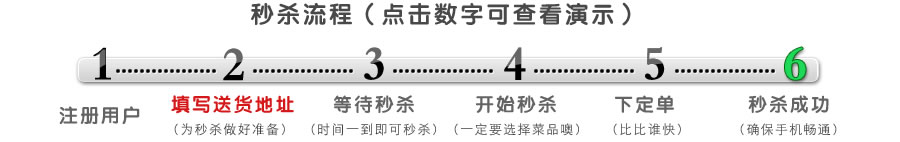
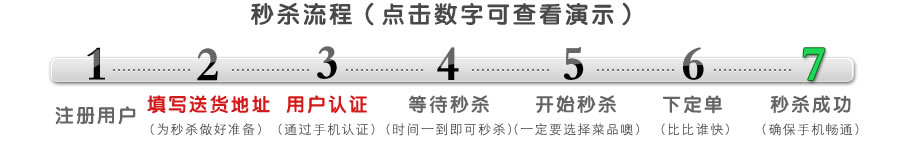
秒杀

Changed region(s): [[0.0311, 0.3099, 0.9644, 0.6197], [0.0622, 0.6479, 0.9644, 0.8732], [0.1556, 0.8732, 0.9644, 0.9577]]

diff --git a/protected/views/miaosha/rules.php b/protected/views/miaosha/rules.php
@@ -4,41 +4,45 @@
 <meta http-equiv="Content-Type" content="text/html; charset=UTF-8" />
 <title>秒杀流程</title>
 <style>
-body{ margin:0; padding:0px;}
+body{ margin:0; padding:0px; background-color:#CCC;}
+img{ border:0px;}
 .M_mc{ text-align:center;}
 .M_m30{ margin:30px 0;}
-img {border: 0px;}
+.M_w900{ width:900px; margin:0 auto; background:#FFF;}
 </style>
 </head>
 
 <body>
+<div class="M_w900">
 <div class="M_mc"><a name="top"><img src="<?php echo resBu('miaosha/images/miao_r1_c1.jpg'); ?>" width="900" height="92" /></a></div>
 <div class="M_m30 M_mc"><img src="<?php echo resBu('miaosha/images/miao_r3_c1.jpg'); ?>" width="900" height="142" border="0" usemap="#Map" />
   <map name="Map" id="Map">
     <area shape="rect" coords="52,36,148,135" href="#a1" />
-    <area shape="rect" coords="165,36,303,137" href="#a2" />
-    <area shape="rect" coords="309,37,440,137" href="#a3" />
-    <area shape="rect" coords="445,36,585,139" href="#a4" />
-    <area shape="rect" coords="591,35,701,141" href="#a5" />
-    <area shape="rect" coords="722,33,846,140" href="#a6" />
+    <area shape="rect" coords="149,36,268,134" href="#a2" />
+    <area shape="rect" coords="270,37,378,136" href="#a3" />
+    <area shape="rect" coords="380,37,510,137" href="#a4" />
+    <area shape="rect" coords="513,39,639,135" href="#a5" />
+    <area shape="rect" coords="641,38,743,135" href="#a6" />
+    <area shape="rect" coords="745,37,868,137" href="#a7" />
   </map>
 </div>
-<div class="M_m30 M_mc"><img src="<?php echo resBu('miaosha/images/miao_r5_c1.jpg'); ?>" width="900" height="287" /></div>
-<div class="M_m30 M_mc"><a name="a1" href="#top"><img src="<?php echo resBu('miaosha/images/miao_r7_c1.jpg'); ?>" width="900" height="35" /></a></div>
-<div class="M_m30 M_mc"><img src="<?php echo resBu('miaosha/images/miao_r9_c2.jpg'); ?>" width="661" height="615" /></div>
-<div class="M_mc"><a name="a2" href="#top"><img src="<?php echo resBu('miaosha/images/miao_r11_c1.jpg'); ?>" width="900" height="35" /></a></div>
-<div class="M_m30 M_mc"><img src="<?php echo resBu('miaosha/images/miao_r13_c2.jpg'); ?>" width="661" height="517" /></div>
-<div class="M_mc"><a name="a3" href="#top"><img src="<?php echo resBu('miaosha/images/miao_r15_c1.jpg'); ?>" width="900" height="36" /></a></div>
-<div class="M_m30 M_mc"><img src="<?php echo resBu('miaosha/images/miao_r17_c2.jpg'); ?>" width="661" height="576" /></div>
-<div class="M_mc"><a name="a4" href="#top"><img src="<?php echo resBu('miaosha/images/miao_r19_c1.jpg'); ?>" width="900" height="34" /></a></div>
-<div class="M_m30 M_mc"><img src="<?php echo resBu('miaosha/images/miao_r21_c2.jpg'); ?>" width="661" height="397" /></div>
-<div class="M_mc"><a name="a5" href="#top"><img src="<?php echo resBu('miaosha/images/miao_r23_c1.jpg'); ?>" width="900" height="36" /></a></div>
-<div class="M_m30 M_mc"><img src="<?php echo resBu('miaosha/images/miao_r25_c2.jpg'); ?>" width="661" height="703" /></div>
-<div class="M_mc"><a name="a6" href="#top"><img src="<?php echo resBu('miaosha/images/miao_r27_c1.jpg'); ?>" width="900" height="36" /></a></div>
-<div class="M_m30 M_mc"><img src="<?php echo resBu('miaosha/images/miao_r29_c2.jpg'); ?>" width="661" height="407" /></div>
-<div class="M_mc"><a href="#top"><img src="<?php echo resBu('miaosha/images/miao_r31_c1.jpg'); ?>" width="900" height="32" /></a></div>
-<div class="M_m30 M_mc"><img src="<?php echo resBu('miaosha/images/miao_r33_c2.jpg'); ?>" width="661" height="411" /></div>
-
-
+<div class="M_m30 M_mc"><img src="<?php echo resBu('miaosha/images/miao_r4_c1.jpg'); ?>" width="900" height="404" /></div>
+<div class="M_m30 M_mc"><a name="a1" href="#top"><img src="<?php echo resBu('miaosha/images/miao_r6_c1.jpg'); ?>" width="895" height="35" /></a></div>
+<div class="M_m30 M_mc"><img src="<?php echo resBu('miaosha/images/miao_r8_c4.jpg'); ?>" width="661" height="615" /></div>
+<div class="M_mc"><a name="a2" href="#top"><img src="<?php echo resBu('miaosha/images/miao_r10_c1.jpg'); ?>" width="900" height="35" /></a></div>
+<div class="M_m30 M_mc"><img src="<?php echo resBu('miaosha/images/miao_r12_c4.jpg'); ?>" width="661" height="517" /></div>
+<div class="M_mc"><a name="a3" href="#top"><img src="<?php echo resBu('miaosha/images/miao_r14_c1.jpg'); ?>" width="900" height="36" /></a></div>
+<div class="M_m30 M_mc"><img src="<?php echo resBu('miaosha/images/miao_r16_c3.jpg'); ?>" width="661" height="752" /></div>
+<div class="M_mc"><a name="a4" href="#top"><img src="<?php echo resBu('miaosha/images/miao_r18_c1.jpg'); ?>" width="900" height="34" /></a></div>
+<div class="M_m30 M_mc"><img src="<?php echo resBu('miaosha/images/miao_r20_c2.jpg'); ?>" width="661" height="569" /></div>
+<div class="M_mc"><a name="a5" href="#top"><img src="<?php echo resBu('miaosha/images/miao_r22_c1.jpg'); ?>" width="900" height="36" /></a></div>
+<div class="M_m30 M_mc"><img src="<?php echo resBu('miaosha/images/miao_r24_c4.jpg'); ?>" width="659" height="390" /></div>
+<div class="M_mc"><a name="a6" href="#top"><img src="<?php echo resBu('miaosha/images/miao_r26_c1.jpg'); ?>" width="900" height="36" /></a></div>
+<div class="M_m30 M_mc"><img src="<?php echo resBu('miaosha/images/miao_r28_c2.jpg'); ?>" width="661" height="700" /></div>
+<div class="M_mc"><a name="a7" href="#top"><img src="<?php echo resBu('miaosha/images/miao_r30_c1.jpg'); ?>" width="900" height="32" /></a></div>
+<div class="M_m30 M_mc"><img src="<?php echo resBu('miaosha/images/miao_r32_c2.jpg'); ?>" width="661" height="401" /></div>
+<div class="M_mc"><a href="#top"><img src="<?php echo resBu('miaosha/images/miao_r34_c1.jpg'); ?>" width="900" height="32" /></a></div>
+<div class="M_m30 M_mc"><img src="<?php echo resBu('miaosha/images/miao_r36_c4.jpg'); ?>" width="659" height="405" /></div>
+</div>
 </body>
 </html>

diff --git a/protected/views/layouts/miaosha.php b/protected/views/layouts/miaosha.php
@@ -29,7 +29,7 @@ echo CHtml::script('BU = \'' . abu() . '\'; RESBU = \'' . resBu() . '\'; SBU = \
 <!--header end-->
 <div class="bigbanner">
 	<div class="bannertime">4月18日-4月22日 每日50份一元午餐限时抢</div>
-    <div><a class="guize" href="<?php echo url('miaosha/rules');?>">确定</a></div>
+    <div><a class="guize" href="<?php echo url('miaosha/rules');?>" target="_blank">确定</a></div>
 </div>
 <!--main beigin-->
 <?php echo $content;?>
